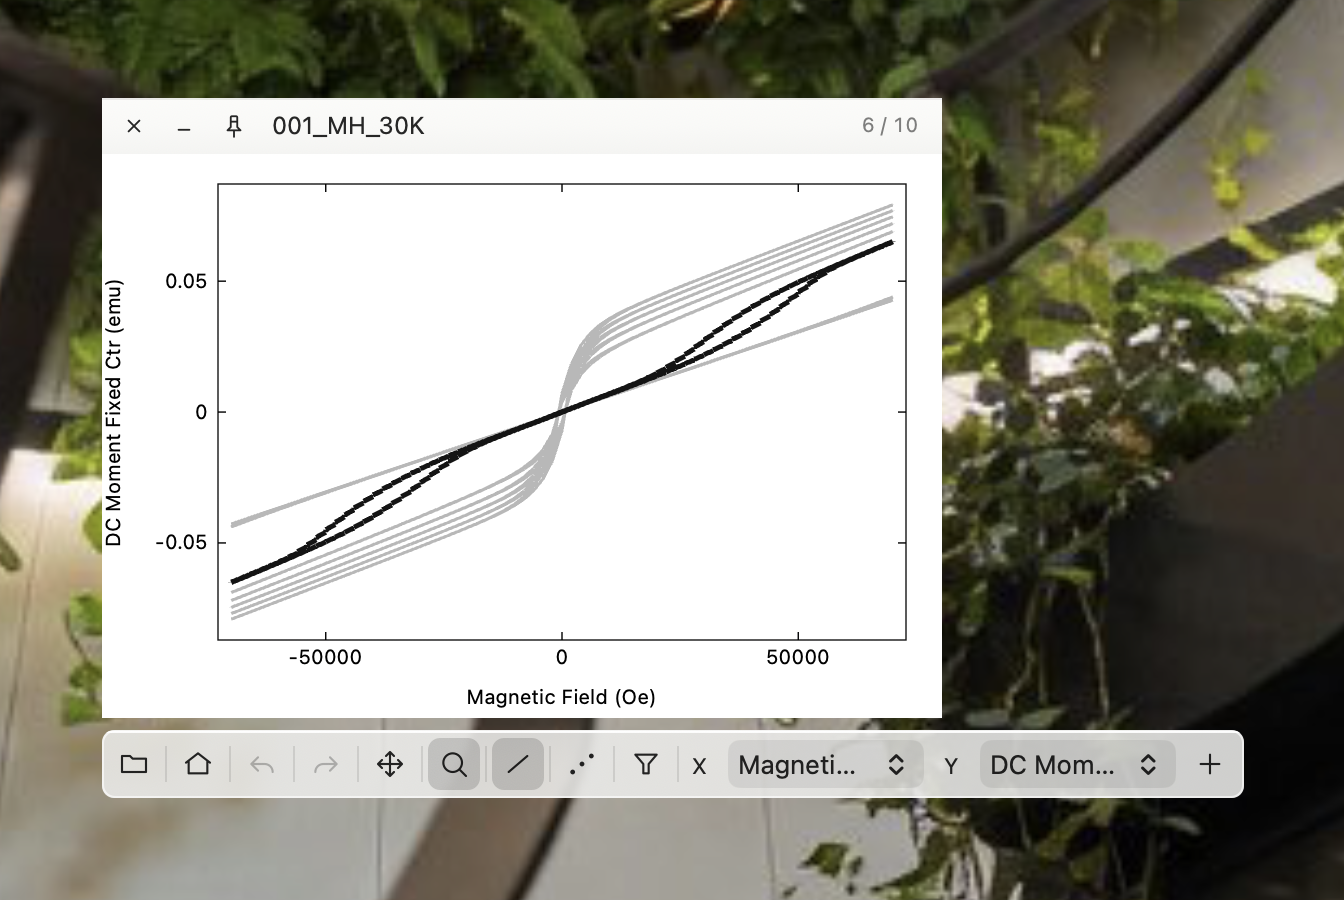
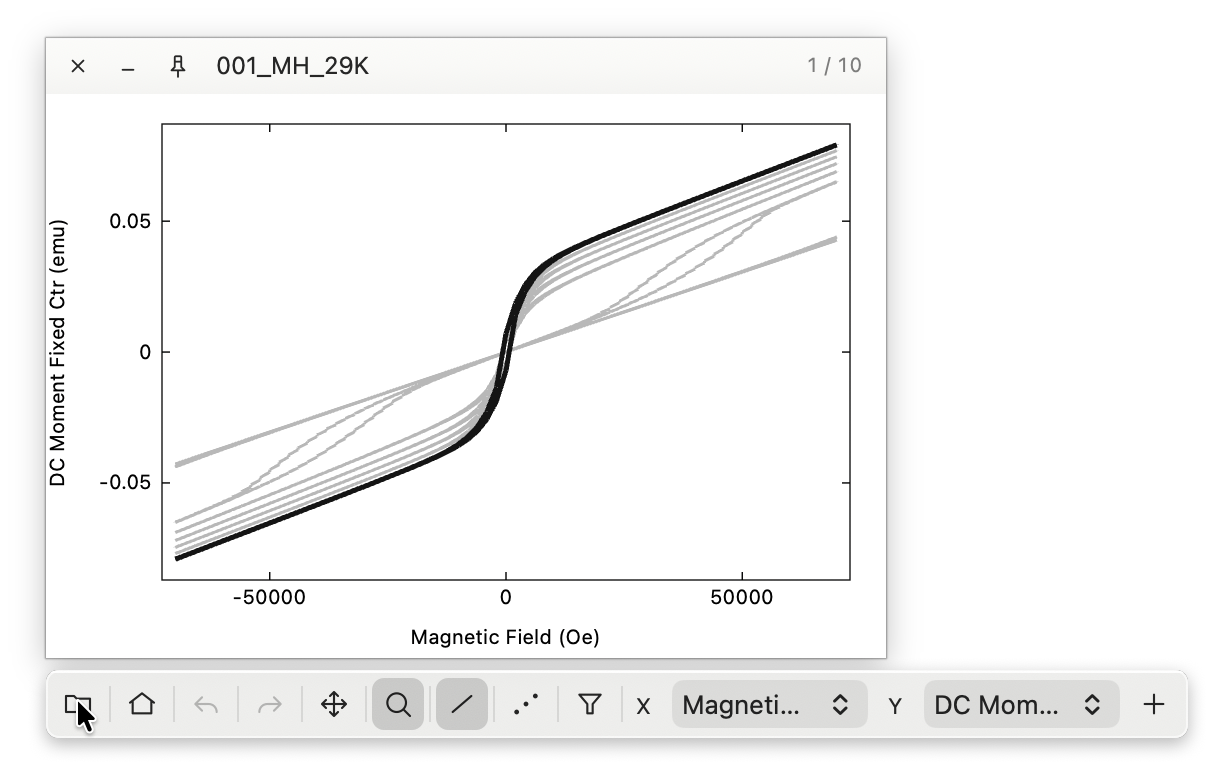
Support dark plot backgrounds and refresh README presentation

diff --git a/native/PlotView.m b/native/PlotView.m
@@ -51,11 +51,12 @@ Bounds PLSeriesExtent(NSArray<Series *> *series) {
     self.yName = @"Y";
     self.range = (Bounds){-1, -1, 2, 2};
     self.wantsLayer = YES;
-    self.layer.backgroundColor = NSColor.whiteColor.CGColor;
     self.metal = [[MTKView alloc] initWithFrame:NSZeroRect device:renderer.device];
     self.metal.colorPixelFormat = MTLPixelFormatBGRA8Unorm;
     self.metal.sampleCount = 4;
-    self.metal.clearColor = MTLClearColorMake(1, 1, 1, 1);
+    CGColorSpaceRef colorSpace = CGColorSpaceCreateWithName(kCGColorSpaceSRGB);
+    self.metal.colorspace = colorSpace;
+    CGColorSpaceRelease(colorSpace);
     self.metal.paused = YES;
     self.metal.enableSetNeedsDisplay = YES;
     self.metal.delegate = self;
@@ -63,6 +64,7 @@ Bounds PLSeriesExtent(NSArray<Series *> *series) {
     self.annotation = [PLAnnotation new];
     self.annotation.chart = self;
     [self addSubview:self.annotation];
+    [self refreshAppearance];
     return self;
 }
 - (void)dealloc {
@@ -83,6 +85,18 @@ Bounds PLSeriesExtent(NSArray<Series *> *series) {
     self.metal.frame = self.plotRect;
     self.annotation.frame = self.bounds;
     [self refresh];
+}
+- (void)refreshAppearance {
+    if (!self.metal)
+        return;
+    PlotPalette palette = PLPlotPalette(PLPlotIsDark(self.effectiveAppearance));
+    self.layer.backgroundColor = PLPlotGray(palette.background, 1).CGColor;
+    self.metal.clearColor = MTLClearColorMake(palette.background, palette.background, palette.background, 1);
+    [self refresh];
+}
+- (void)viewDidChangeEffectiveAppearance {
+    [super viewDidChangeEffectiveAppearance];
+    [self refreshAppearance];
 }
 - (void)refresh {
     self.hoverGeneration++;
@@ -116,12 +130,14 @@ static NSString *TickLabel(double value, double step, double origin) {
 - (void)drawAnnotationsIncludingInteraction:(BOOL)interaction {
     NSRect r = self.plotRect;
     Bounds b = self.range;
+    BOOL dark = PLPlotIsDark(self.effectiveAppearance);
+    PlotPalette palette = PLPlotPalette(dark);
     CGContextRef c = NSGraphicsContext.currentContext.CGContext;
     NSDictionary *font = @{
         NSFontAttributeName : [NSFont systemFontOfSize:10],
-        NSForegroundColorAttributeName : NSColor.blackColor
+        NSForegroundColorAttributeName : PLPlotGray(palette.ink, 1)
     };
-    CGContextSetRGBStrokeColor(c, .08, .08, .08, 1);
+    CGContextSetRGBStrokeColor(c, palette.axis, palette.axis, palette.axis, 1);
     CGContextSetLineWidth(c, .7);
     CGContextStrokeRect(c, NSRectToCGRect(r));
     double sx = TickStep(b.width, (NSUInteger)(r.size.width / 65)),
@@ -173,16 +189,16 @@ static NSString *TickLabel(double value, double step, double origin) {
             NSMakeRect(fmax(2, fmin(self.bounds.size.width - size.width - 10, self.hoverPoint.x + 10)),
                        fmax(2, fmin(self.bounds.size.height - size.height - 10, self.hoverPoint.y + 10)),
                        size.width + 8, size.height + 6);
-        [[NSColor.whiteColor colorWithAlphaComponent:.95] setFill];
+        [PLPlotGray(dark ? .12 : 1, .98) setFill];
         NSRectFill(box);
-        [NSColor.grayColor setFill];
+        [PLPlotGray(dark ? .45 : .5, 1) setFill];
         NSFrameRect(box);
         [self.hoverText drawAtPoint:NSMakePoint(box.origin.x + 4, box.origin.y + 3) withAttributes:font];
     }
     if (interaction && self.pan) {
-        [[NSColor colorWithWhite:.2 alpha:.08] setFill];
+        [PLPlotGray(dark ? 1 : .2, dark ? .06 : .08) setFill];
         NSRectFillUsingOperation(r, NSCompositingOperationSourceOver);
-        [[NSColor colorWithWhite:.28 alpha:1] setStroke];
+        [PLPlotGray(dark ? .6 : .28, 1) setStroke];
         NSBezierPath *outline = [NSBezierPath bezierPathWithRect:NSInsetRect(r, 1.5, 1.5)];
         CGFloat dash[] = {4, 3};
         [outline setLineDash:dash count:2 phase:0];
@@ -193,10 +209,10 @@ static NSString *TickLabel(double value, double step, double origin) {
         NSRect box = NSMakeRect(
             fmin(self.dragStart.x, self.dragCurrent.x), fmin(self.dragStart.y, self.dragCurrent.y),
             fabs(self.dragStart.x - self.dragCurrent.x), fabs(self.dragStart.y - self.dragCurrent.y));
-        [[NSColor colorWithWhite:.25 alpha:.20] setFill];
+        [PLPlotGray(dark ? 1 : .25, dark ? .14 : .20) setFill];
         NSRect clipped = NSIntersectionRect(box, r);
         NSRectFillUsingOperation(clipped, NSCompositingOperationSourceOver);
-        [[NSColor colorWithWhite:.15 alpha:1] setFill];
+        [PLPlotGray(dark ? .8 : .15, 1) setFill];
         NSFrameRectWithWidth(clipped, 1);
     }
 }
@@ -204,7 +220,8 @@ static NSString *TickLabel(double value, double step, double origin) {
     if (!view.currentRenderPassDescriptor || !view.currentDrawable)
         return;
     Viewport v = {.pixels = {view.drawableSize.width, view.drawableSize.height},
-                  .width = self.window.backingScaleFactor ?: 1};
+                  .width = self.window.backingScaleFactor ?: 1,
+                  .dark = PLPlotIsDark(self.effectiveAppearance)};
     id<MTLCommandBuffer> command = [self.renderer encode:view.currentRenderPassDescriptor
                                                   series:self.series
                                                 selected:self.selected
@@ -222,6 +239,7 @@ static NSString *TickLabel(double value, double step, double origin) {
 }
 - (void)viewDidMoveToWindow {
     [self.window setAcceptsMouseMovedEvents:YES];
+    [self refreshAppearance];
 }
 - (void)updateTrackingAreas {
     [super updateTrackingAreas];
@@ -426,8 +444,11 @@ static NSString *TickLabel(double value, double step, double origin) {
     pass.colorAttachments[0].resolveTexture = output;
     pass.colorAttachments[0].loadAction = MTLLoadActionClear;
     pass.colorAttachments[0].storeAction = MTLStoreActionMultisampleResolve;
-    pass.colorAttachments[0].clearColor = MTLClearColorMake(1, 1, 1, 1);
-    Viewport v = {.pixels = {w, h}, .width = scale};
+    BOOL dark = PLPlotIsDark(self.effectiveAppearance);
+    PlotPalette palette = PLPlotPalette(dark);
+    pass.colorAttachments[0].clearColor =
+        MTLClearColorMake(palette.background, palette.background, palette.background, 1);
+    Viewport v = {.pixels = {w, h}, .width = scale, .dark = dark};
     id<MTLCommandBuffer> cmd = [self.renderer encode:pass
                                               series:self.series
                                             selected:self.selected
@@ -457,7 +478,7 @@ static NSString *TickLabel(double value, double step, double origin) {
         return nil;
     NSData *pixels = [NSData dataWithBytes:read.contents length:row * h];
     CGDataProviderRef provider = CGDataProviderCreateWithCFData((__bridge CFDataRef)pixels);
-    CGColorSpaceRef space = CGColorSpaceCreateDeviceRGB();
+    CGColorSpaceRef space = CGColorSpaceCreateWithName(kCGColorSpaceSRGB);
     CGImageRef image =
         CGImageCreate(w, h, 8, 32, row, space, kCGBitmapByteOrder32Little | kCGImageAlphaPremultipliedFirst,
                       provider, NULL, NO, kCGRenderingIntentDefault);

diff --git a/native/benchmark.m b/native/benchmark.m
@@ -158,8 +158,8 @@ static void Benchmark(Renderer *renderer, NSUInteger count, NSUInteger windows, 
     }
 }
 
-static NSData *ReadMetal(Renderer *renderer, NSArray<Series *> *series, NSUInteger selected, Bounds bounds,
-                         BOOL points) {
+static NSData *ReadMetalTheme(Renderer *renderer, NSArray<Series *> *series, NSUInteger selected,
+                              Bounds bounds, BOOL points, BOOL dark) {
     const NSUInteger w = 256, h = 128;
     MTLTextureDescriptor *d =
         [MTLTextureDescriptor texture2DDescriptorWithPixelFormat:MTLPixelFormatBGRA8Unorm
@@ -177,8 +177,10 @@ static NSData *ReadMetal(Renderer *renderer, NSArray<Series *> *series, NSUInteg
     pass.colorAttachments[0].resolveTexture = output;
     pass.colorAttachments[0].loadAction = MTLLoadActionClear;
     pass.colorAttachments[0].storeAction = MTLStoreActionMultisampleResolve;
-    pass.colorAttachments[0].clearColor = MTLClearColorMake(1, 1, 1, 1);
-    Viewport v = {.pixels = {w, h}, .width = 1};
+    PlotPalette palette = PLPlotPalette(dark);
+    pass.colorAttachments[0].clearColor =
+        MTLClearColorMake(palette.background, palette.background, palette.background, 1);
+    Viewport v = {.pixels = {w, h}, .width = 1, .dark = dark};
     id<MTLCommandBuffer> command = [renderer encode:pass
                                              series:series
                                            selected:selected
@@ -204,6 +206,10 @@ static NSData *ReadMetal(Renderer *renderer, NSArray<Series *> *series, NSUInteg
     Require(command.status == MTLCommandBufferStatusCompleted,
             command.error.localizedDescription ?: @"Readback failed");
     return [NSData dataWithBytes:readback.contents length:w * h * 4];
+}
+static NSData *ReadMetal(Renderer *renderer, NSArray<Series *> *series, NSUInteger selected, Bounds bounds,
+                         BOOL points) {
+    return ReadMetalTheme(renderer, series, selected, bounds, points, NO);
 }
 static unsigned Pixel(NSData *image, int x, int y) {
     return ((const unsigned char *)image.bytes)[(y * 256 + x) * 4];
@@ -253,6 +259,14 @@ static void Verify(Renderer *renderer) {
     Require(DarkNear(image, 128, 64) && Pixel(image, 16, 16) > 245,
             @"FAIL: isolated marker or missing marker");
     puts("PASS: isolated marker and non-finite marker rejection");
+    image = ReadMetalTheme(renderer, @[ sa, sc ], 0, group, NO, YES);
+    Require(Pixel(image, 128, 96) > 210 && Pixel(image, 128, 32) > 70 && Pixel(image, 128, 32) < 150 &&
+                Pixel(image, 16, 64) < 35 && sa.buffer == before,
+            @"FAIL: dark palette must render white selection and gray context without replacing buffers");
+    image = ReadMetalTheme(renderer, @[ sp ], 0, group, YES, YES);
+    Require(Pixel(image, 128, 64) > 210 && Pixel(image, 16, 16) < 35,
+            @"FAIL: dark points must remain visible on the dark background");
+    puts("PASS: dark background, selected and context colors for lines and points");
     XY zoom[] = {{0, 0}, {1e8 - 1, 1}, {1e8, 1}, {1e8 + 1, 1}};
     Series *detail = [[Series alloc] initWithData:[NSData dataWithBytes:zoom length:sizeof(zoom)]
                                              name:@"Deep zoom"

diff --git a/native/tests/app.m b/native/tests/app.m
@@ -30,6 +30,7 @@ int main(void) {
     @autoreleasepool {
         [NSApplication sharedApplication];
         [NSApp setActivationPolicy:NSApplicationActivationPolicyAccessory];
+        NSApp.appearance = [NSAppearance appearanceNamed:NSAppearanceNameAqua];
         NSRect original = NSMakeRect(100, 200, 420, 310);
         NSSize minimum = NSMakeSize(240, 170), maximum = NSMakeSize(800, 600);
         struct {
@@ -241,6 +242,41 @@ int main(void) {
             }
         Check(dark > 500, @"PNG contains GPU traces and axes, not a blank Metal layer");
         [png writeToFile:@"build/native-export.png" atomically:YES];
+        id<MTLBuffer> themeBuffer = c.charts[0].series[0].buffer;
+        Bounds themeRange = c.charts[0].range;
+        c.window.appearance = [NSAppearance appearanceNamed:NSAppearanceNameDarkAqua];
+        for (PLChart *chart in c.charts)
+            [chart refreshAppearance];
+        NSData *darkPNG = [c panelPNG];
+        NSBitmapImageRep *darkBitmap = [NSBitmapImageRep imageRepWithData:darkPNG];
+        NSColor *darkMargin =
+            [[darkBitmap colorAtX:2 y:80] colorUsingColorSpace:NSColorSpace.deviceRGBColorSpace];
+        Check(darkMargin.redComponent < .12 && darkMargin.greenComponent < .12 &&
+                  darkMargin.blueComponent < .12,
+              @"dark export includes the dark plot margins");
+        NSColor *darkCentre =
+            [[darkBitmap colorAtX:200 y:100] colorUsingColorSpace:NSColorSpace.deviceRGBColorSpace];
+        Check(darkCentre.redComponent < .2, @"Metal plot background switches to dark");
+        NSUInteger lightPixels = 0;
+        for (NSInteger y = 30; y < darkBitmap.pixelsHigh - 50; y++)
+            for (NSInteger x = 50; x < darkBitmap.pixelsWide - 30; x++)
+                if ([[darkBitmap colorAtX:x y:y] colorUsingColorSpace:NSColorSpace.deviceRGBColorSpace]
+                        .redComponent > .6)
+                    lightPixels++;
+        Check(lightPixels > 500, @"dark export contains light GPU traces, axes and labels");
+        Bounds themeAfter = c.charts[0].range;
+        Check(c.charts[0].series[0].buffer == themeBuffer &&
+                  memcmp(&themeRange, &themeAfter, sizeof(Bounds)) == 0,
+              @"theme changes preserve data buffers and viewport");
+        [darkPNG writeToFile:@"build/native-export-dark.png" atomically:YES];
+        c.window.appearance = nil;
+        for (PLChart *chart in c.charts)
+            [chart refreshAppearance];
+        NSBitmapImageRep *restored = [NSBitmapImageRep imageRepWithData:[c panelPNG]];
+        Check(
+            [[restored colorAtX:2 y:80] colorUsingColorSpace:NSColorSpace.deviceRGBColorSpace].redComponent >
+                .9,
+            @"returning to light restores the white plot background");
         // Exercise real AppKit key-window and child-window transitions.
         [NSApp setActivationPolicy:NSApplicationActivationPolicyRegular];
         [NSApp finishLaunching];

diff --git a/native/main.m b/native/main.m
@@ -519,15 +519,22 @@ static NSCursor *PlotResizeCursor(PlotResizeEdge edges) {
     return YES;
 }
 - (void)drawRect:(NSRect)dirty {
-    [NSColor.whiteColor setFill];
+    PlotPalette palette = PLPlotPalette(PLPlotIsDark(self.effectiveAppearance));
+    [PLPlotGray(palette.background, 1) setFill];
     NSRectFill(self.bounds);
     DrawHeader(NSMakeRect(0, self.bounds.size.height - 28, self.bounds.size.width, 28), NO);
 
-    [NSColor.grayColor setStroke];
+    [PLPlotGray(palette.axis, 1) setStroke];
     NSBezierPath *grip = [NSBezierPath bezierPath];
     [grip moveToPoint:NSMakePoint(self.bounds.size.width - 8, 2)];
     [grip lineToPoint:NSMakePoint(self.bounds.size.width - 2, 8)];
     [grip stroke];
+}
+- (void)viewDidChangeEffectiveAppearance {
+    [super viewDidChangeEffectiveAppearance];
+    PlotPalette palette = PLPlotPalette(PLPlotIsDark(self.effectiveAppearance));
+    self.window.backgroundColor = PLPlotGray(palette.background, 1);
+    self.needsDisplay = YES;
 }
 - (void)resetCursorRects {
     CGFloat w = self.bounds.size.width, h = self.bounds.size.height;
@@ -579,7 +586,8 @@ static NSCursor *PlotResizeCursor(PlotResizeEdge edges) {
     self.window.title = @"Plot";
     self.window.minSize = NSMakeSize(240, 170);
     self.window.opaque = YES;
-    self.window.backgroundColor = NSColor.whiteColor;
+    self.window.backgroundColor =
+        PLPlotGray(PLPlotPalette(PLPlotIsDark(NSApp.effectiveAppearance)).background, 1);
     self.window.hasShadow = YES;
     self.root = [[PlotRoot alloc] initWithFrame:self.window.contentView.bounds];
     self.root.controller = self;
@@ -1257,6 +1265,10 @@ static NSCursor *PlotResizeCursor(PlotResizeEdge edges) {
                        : [theme isEqual:@"light"] ? [NSAppearance appearanceNamed:NSAppearanceNameAqua]
                                                   : nil;
     for (PlotController *c in self.controllers) {
+        c.window.backgroundColor =
+            PLPlotGray(PLPlotPalette(PLPlotIsDark(c.window.effectiveAppearance)).background, 1);
+        for (PLChart *chart in c.charts)
+            [chart refreshAppearance];
         [c layout];
         [c.root setNeedsDisplay:YES];
         for (NSView *view in c.root.subviews)

diff --git a/native/PlotRenderer.h b/native/PlotRenderer.h
@@ -11,9 +11,24 @@ typedef struct {
 typedef struct {
     vector_float2 minimum, span, pixels;
     float width;
-    uint32_t points;
+    uint32_t points, dark;
     vector_float4 color;
 } Viewport;
+
+typedef struct {
+    double background, ink, axis, selected, context;
+} PlotPalette;
+static inline PlotPalette PLPlotPalette(BOOL dark) {
+    return dark ? (PlotPalette){.07, .88, .68, .92, .42} : (PlotPalette){1, 0, .08, .08, .72};
+}
+static inline BOOL PLPlotIsDark(NSAppearance *appearance) {
+    return [[(appearance ?: NSAppearance.currentDrawingAppearance) bestMatchFromAppearancesWithNames:@[
+        NSAppearanceNameAqua, NSAppearanceNameDarkAqua
+    ]] isEqual:NSAppearanceNameDarkAqua];
+}
+static inline NSColor *PLPlotGray(double value, double alpha) {
+    return [NSColor colorWithSRGBRed:value green:value blue:value alpha:alpha];
+}
 
 @interface Series : NSObject
 @property(nonatomic) NSString *name;

diff --git a/native/PlotRenderer.m b/native/PlotRenderer.m
@@ -138,8 +138,9 @@ static void Require(BOOL ok, NSString *message) {
             (vector_float2){(bounds.x - base.x) / base.width, (bounds.y - base.y) / base.height};
         uniforms.span = (vector_float2){bounds.width / base.width, bounds.height / base.height};
         uniforms.points = (uint32_t)(s.raw.length / sizeof(XY));
-        uniforms.color =
-            index == selected ? (vector_float4){0.08, 0.08, 0.08, 1} : (vector_float4){0.72, 0.72, 0.72, 1};
+        PlotPalette palette = PLPlotPalette(view.dark);
+        float gray = index == selected ? palette.selected : palette.context;
+        uniforms.color = (vector_float4){gray, gray, gray, 1};
         uniforms.width =
             (points ? (index == selected ? 4 : 3) : (index == selected ? 2.5 : 1.5)) * view.width;
         [encoder setVertexBuffer:s.buffer offset:0 atIndex:0];

diff --git a/native/PlotView.h b/native/PlotView.h
@@ -13,6 +13,7 @@
 @property(nonatomic, readonly) NSRect plotRect;
 - (instancetype)initWithRenderer:(Renderer *)renderer;
 - (void)refresh;
+- (void)refreshAppearance;
 - (void)drawAnnotations;
 - (void)drawAnnotationsForExport;
 - (NSImage *)plotImageAtScale:(CGFloat)scale;

diff --git a/README.md b/README.md
@@ -2,7 +2,7 @@
 
 # Plot
 
-A macOS app for instantly plotting CSV / DAT / RAS / SPEC TXT files.
+A plotting app for macOS.
 
 [日本語](README_jp.md)
 

diff --git a/README_jp.md b/README_jp.md
@@ -2,6 +2,8 @@
 
 # Plot
 
+macOS用のグラフ表示アプリ。
+
 [English](README.md)
 
 </div>
